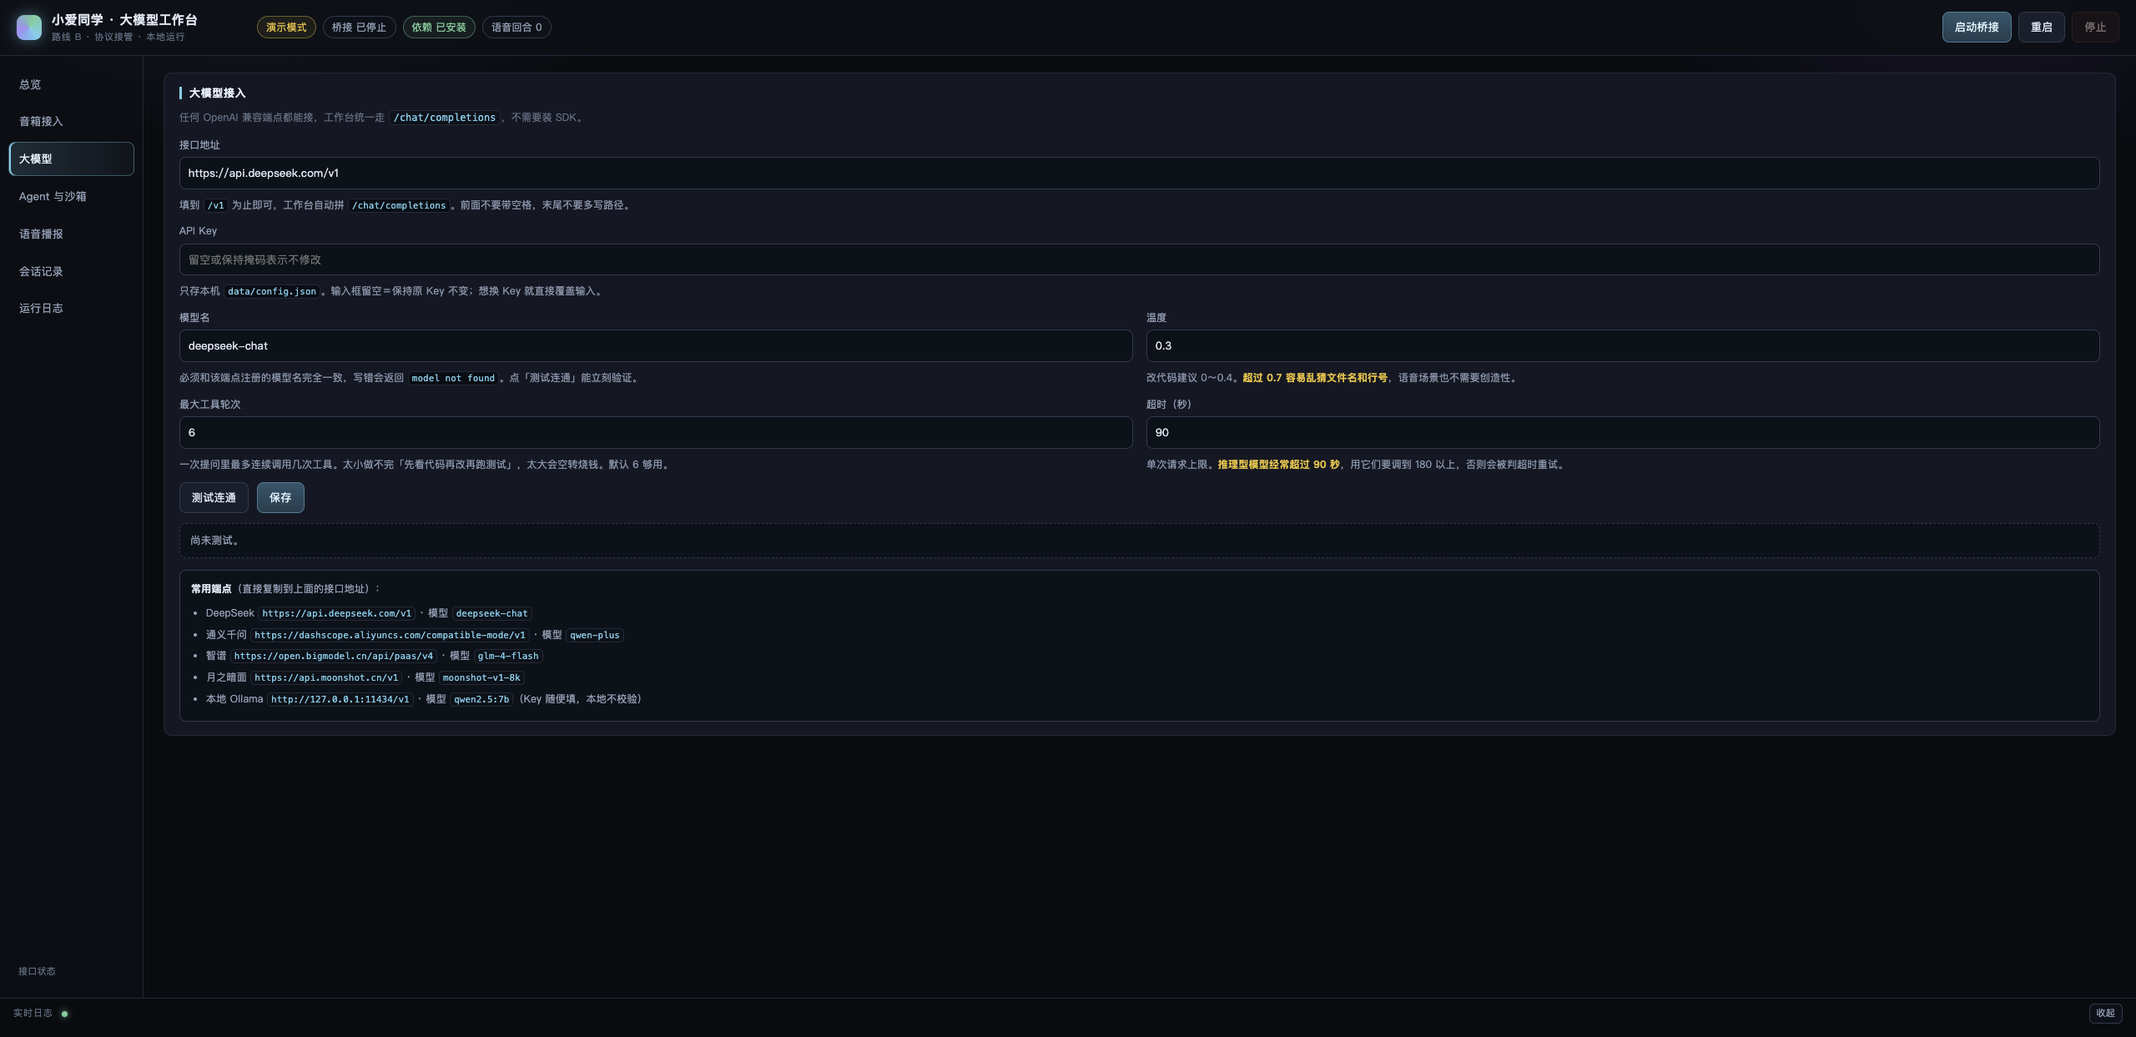
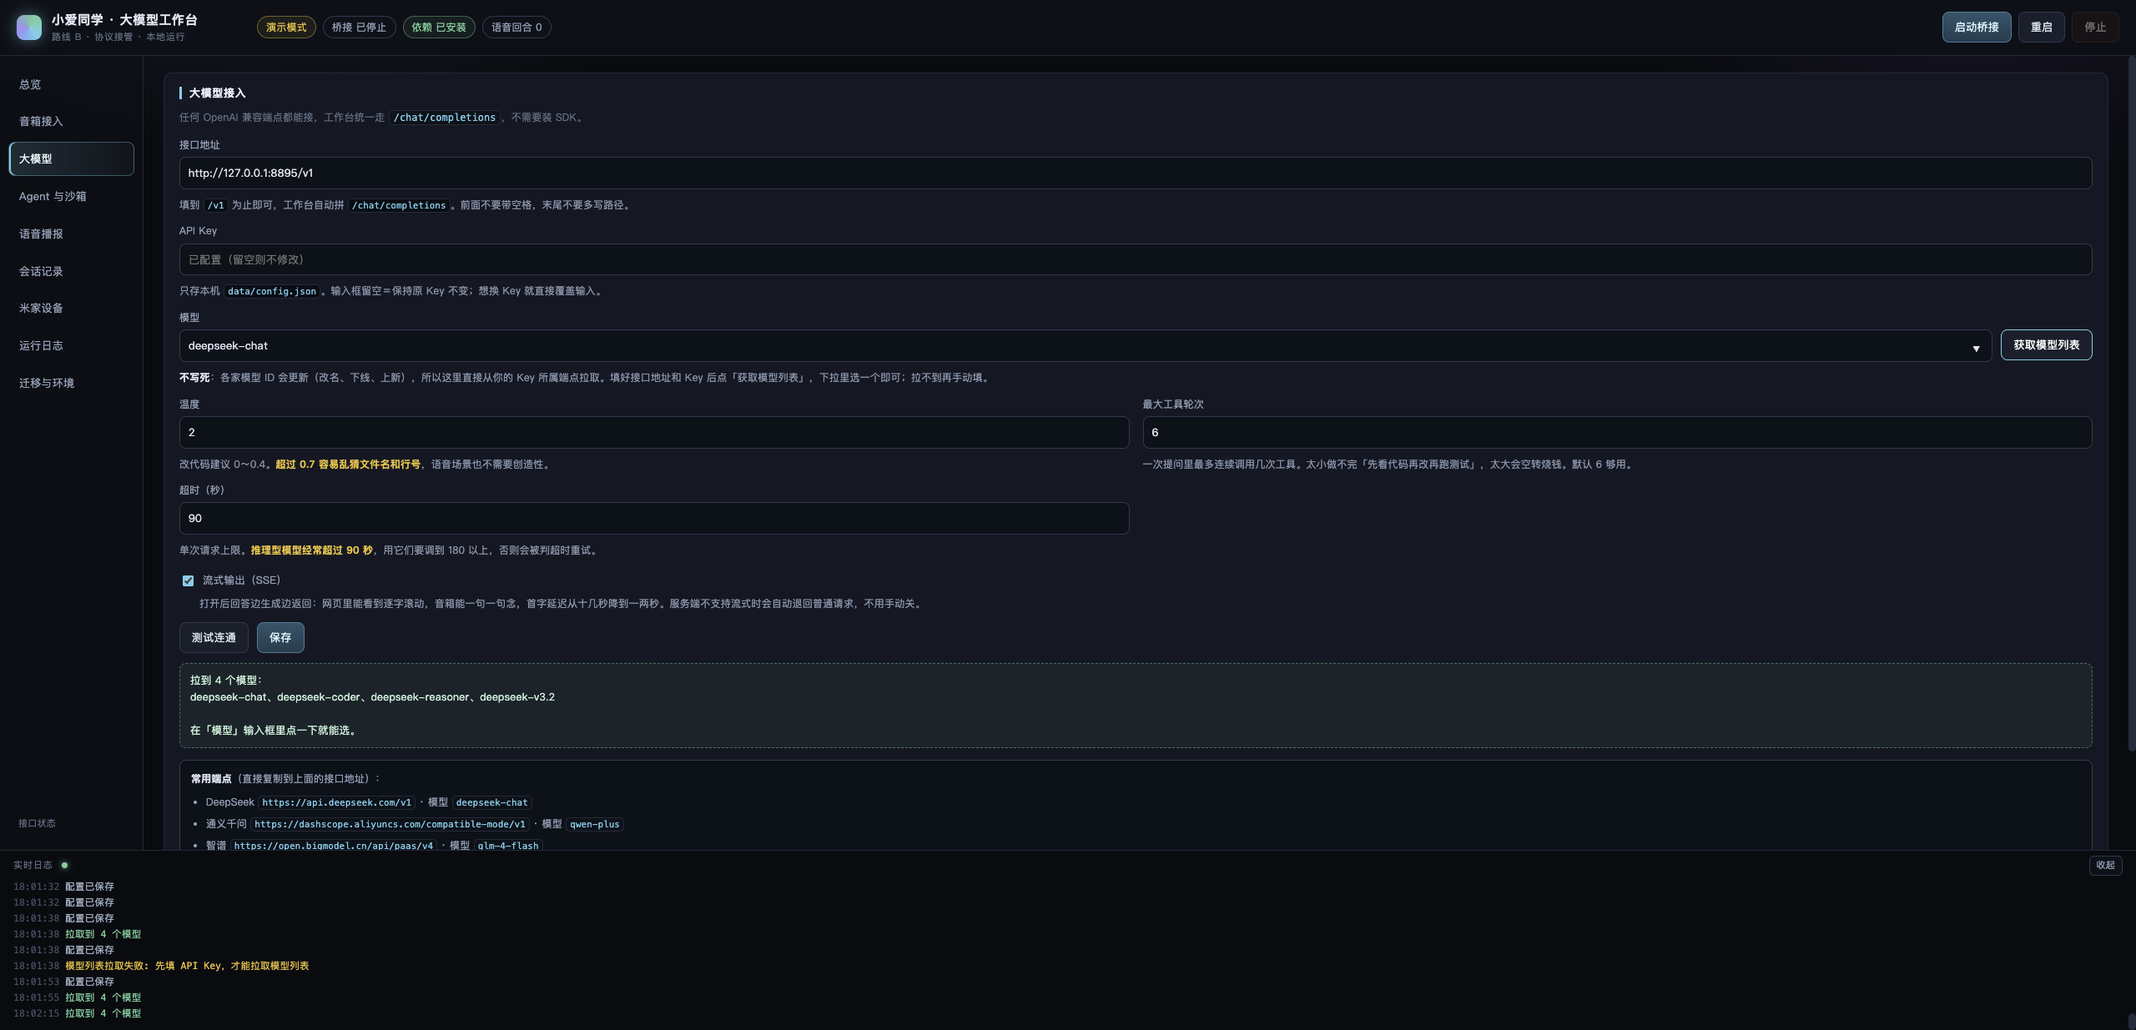
feat(ui): 模型列表现场拉取 + DID/型号自动带回 + 首次配置引导
用户反馈三个真问题：
1. 不知道 DID 去哪找、型号怎么填——其实「发现设备」就能带回来，
   但界面没引导，型号还是个写死的下拉，真机型号不在列表里就卡住
2. 模型 ID 写死 deepseek-chat，上游改名/上新后就过时

改动：
- 新增 GET /api/llm/models，走 OpenAI 兼容的 /models，前端「获取模型列表」
  一键填充 datalist；不提供的端点明确报错，仍可手填
- 硬件型号改成可自由输入的 input + datalist 候选，发现设备时自动带回
- 音箱接入顶部加四步配置引导卡
- 修程序化填值被 3 秒轮询覆盖：必须派发 input 事件置脏标记
- 修 #mi / #llm 这类不存在选择器导致的静默失败
- 新增 6 个测试，总计 132

diff --git a/app/web/index.html b/app/web/index.html
@@ -123,6 +123,16 @@
       <section class="panel" data-panel="mi">
         <div class="box">
           <h2>小米账号与设备</h2>
+          <div class="steps">
+            <b>第一次配置，按这四个步骤走：</b>
+            <ol>
+              <li>填上面的<b>小米账号和密码</b>，点「保存」。（建议用小号，同账号会顶掉手机小爱）</li>
+              <li>点「<b>发现设备</b>」——它会从小米云端把你这账号下的音箱<b>连同 DID 和型号一起列出来</b>，不需要你手抄。</li>
+              <li>表格里每行左侧勾上「接管」，保存。只有一台时可以直接点那一行，DID 和型号会自动填好。</li>
+              <li>确认是接真机后，<b>取消勾选「演示模式」</b>，回顶部点「启动桥接」。</li>
+            </ol>
+            <p class="note" style="margin:6px 0 0">找不到设备？先在米家 App 里确认这台音箱确实挂在这个账号下、且已通电联网；账号密码错误会在这一步报出来。</p>
+          </div>
           <p class="hint">这一页决定「从哪台音箱取语音、往哪台音箱播报」。填完记得点保存，再回顶部启动桥接。</p>
 
           <div class="form" data-section="mi">
@@ -137,24 +147,26 @@
             </label>
 
             <label>设备 DID
-              <input name="did" placeholder="点下方「发现设备」后点一行自动填入">
-              <span class="note">音箱的唯一标识。家里有多台就填要接管的那台；留空则默认取账号下第一台。</span>
+              <input name="did" placeholder="点「发现设备」会自动带回，不用手抄">
+              <span class="note"><b>不用自己找</b>：DID 是小米云里设备的内部编号，手机端一般看不到。点下方「发现设备」会直接列出来并填好。手动填也行——家里多台就填要接管的那台，留空则默认用第一台。</span>
             </label>
 
             <label>硬件型号
-              <select name="hardware">
-                <option value="LX06">LX06 · 小爱音箱 Pro</option>
-                <option value="L06A">L06A · 小爱音箱 Pro</option>
-                <option value="L05B">L05B · 小爱音箱 Play</option>
-                <option value="L05C">L05C · Play 增强版</option>
-                <option value="L07A">L07A · 小爱音箱 Art</option>
-                <option value="LX5A">LX5A · 小米 AI 音箱</option>
-                <option value="X08A">X08A · 小爱音箱 HD</option>
-                <option value="X10A">X10A · 小爱触屏音箱</option>
-                <option value="LX04">LX04 · 触屏音箱</option>
-                <option value="MOCK">MOCK · 演示</option>
-              </select>
-              <span class="note">只影响能力判断（是否走播放/音量接口），纯文本播报一般填错也能用。不确定就按「发现设备」里显示的型号选。</span>
+              <input name="hardware" list="hw-codes" placeholder="发现设备后自动带回，例如 LX06">
+              <datalist id="hw-codes">
+                <option value="LX06">小爱音箱 Pro</option>
+                <option value="L06A">小爱音箱 Pro</option>
+                <option value="LX5A">小米 AI 音箱</option>
+                <option value="L05B">小爱音箱 Play</option>
+                <option value="L05C">Play 增强版</option>
+                <option value="L07A">小爱音箱 Art</option>
+                <option value="X08A">小爱音箱 HD</option>
+                <option value="X10A">小爱触屏音箱</option>
+                <option value="LX04">触屏音箱</option>
+                <option value="OH2P">小米 Sound Pro</option>
+                <option value="MOCK">演示</option>
+              </datalist>
+              <span class="note"><b>也不用自己猜</b>：点「发现设备」会把真实型号带回来。它只影响能力判断（音量/播放接口），填错通常也能正常播报；能直接输入任意型号，不受列表限制。</span>
             </label>
 
             <label>轮询间隔（秒）
@@ -213,9 +225,13 @@
               <span class="note">只存本机 <code>data/config.json</code>。输入框留空＝保持原 Key 不变；想换 Key 就直接覆盖输入。</span>
             </label>
 
-            <label>模型名
-              <input name="model" placeholder="deepseek-chat">
-              <span class="note">必须和该端点注册的模型名完全一致，写错会返回 <code>model not found</code>。点「测试连通」能立刻验证。</span>
+            <label class="full">模型
+              <div class="row" style="margin:0">
+                <input name="model" list="model-list" placeholder="点右侧「获取列表」自动填充，或手动输入" style="flex:1">
+                <button class="btn" id="btn-list-models" type="button" title="向该端点请求 /models，列出当前可用的模型 ID">获取模型列表</button>
+              </div>
+              <datalist id="model-list"></datalist>
+              <span class="note"><b>不写死</b>：各家模型 ID 会更新（改名、下线、上新），所以这里直接从你的 Key 所属端点拉取。填好接口地址和 Key 后点「获取模型列表」，下拉里选一个即可；拉不到再手动填。</span>
             </label>
 
             <label>温度

diff --git a/app/web/app.js b/app/web/app.js
@@ -63,6 +63,14 @@
   });
 
   /* ------------------------------------------------ 配置表单 */
+  // 程序化填值也要走事件，否则后台轮询会把刚填的内容冲掉
+  function setField(el, value) {
+    if (!el) return;
+    el.value = value == null ? "" : value;
+    el.dispatchEvent(new Event("input", { bubbles: true }));
+    el.dispatchEvent(new Event("change", { bubbles: true }));
+  }
+
   function fillForm(section, cfg) {
     const box = $(`.form[data-section="${section}"]`);
     if (!box || !cfg) return;
@@ -343,13 +351,24 @@
     MI_DIDS = (((STATE || {}).config || {}).mi || {}).dids || [];
     tb.innerHTML = (list || []).map(d => {
       const on = MI_DIDS.includes(d.did) ? "checked" : "";
-      return `<tr><td><input type="checkbox" class="pick-did" data-did="${esc(d.did)}" ${on}></td>
+      return `<tr data-did="${esc(d.did)}" data-hw="${esc(d.hardware || "")}">
+      <td><input type="checkbox" class="pick-did" data-did="${esc(d.did)}" ${on}></td>
       <td>${esc(d.name || "—")}</td><td>${esc(d.hardware || "—")}</td><td><code>${esc(d.did)}</code></td></tr>`;
     }).join("");
     tbl.hidden = !(list && list.length);
     const dn = $("#dev-note");
     if (dn) dn.hidden = !(list && list.length);
-    if (list && list.length) box.textContent = `发现 ${list.length} 台设备。`;
+    if (list && list.length > 1) {
+      box.textContent = `发现 ${list.length} 台设备：勾选「接管」可同时管理多台；只想接管一台就点那一行，DID 和型号会自动填好。`;
+    }
+    // 只有一台就直接把 DID 和型号填好，省掉手抄
+    if (list && list.length === 1) {
+      const d = list[0];
+      const f = (n) => $(`.panel[data-panel="mi"] input[name="${n}"]`);
+      setField(f("did"), d.did || "");
+      if (d.hardware) setField(f("hardware"), d.hardware);
+      box.textContent = `发现 1 台设备：${d.name || d.did}，DID 与型号已自动填入。`;
+    }
     $$("#dev-table .pick-did").forEach(cb => {
       cb.addEventListener("change", () => {
         const did = cb.dataset.did;
@@ -363,9 +382,11 @@
     $$("#dev-table tbody tr").forEach(tr => {
       tr.addEventListener("click", (e) => {
         if (e.target.tagName === "INPUT") return;
-        const did = tr.querySelector("code").textContent;
-        $('#mi input[name="did"]').value = did;
-        toast("已填入单个 DID");
+        const did = tr.dataset.did || tr.querySelector("code").textContent;
+        const hw = (tr.dataset.hw || "").trim();
+        setField($('.panel[data-panel="mi"] input[name="did"]'), did);
+        if (hw) setField($('.panel[data-panel="mi"] input[name="hardware"]'), hw);
+        toast("已填入 DID" + (hw ? "（型号 " + hw + "）" : ""));
       });
     });
   }
@@ -398,6 +419,36 @@
     const r = await api("/api/mi/otp", { code });
     toast(r.ok ? "已提交验证码" : (r.error || "失败"), !r.ok);
     $("#otp-input").value = "";
+  });
+
+  $("#btn-list-models").addEventListener("click", async () => {
+    const btn = $("#btn-list-models");
+    const box = $("#llm-result");
+    btn.disabled = true;
+    btn.textContent = "拉取中…";
+    box.className = "result";
+    box.textContent = "正在向端点请求模型列表（会先用当前已保存的接口地址与 Key）…";
+    try {
+      const r = await api("/api/llm/models");
+      if (!r.ok) {
+        box.className = "result err";
+        box.textContent = "拉取失败：" + (r.error || "未知") +
+          "\n\n提示：先点「保存」把接口地址和 Key 存下来，再获取；个别端点不提供 /models，只能手动填。";
+        return;
+      }
+      const dl = $("#model-list");
+      dl.innerHTML = r.models.map(m => `<option value="${esc(m)}"></option>`).join("");
+      const cur = $('.panel[data-panel="llm"] input[name="model"]');
+      if (cur && !cur.value && r.models.length) {
+        setField(cur, (r.current && r.models.includes(r.current)) ? r.current : r.models[0]);
+      }
+      box.className = "result ok";
+      box.textContent = `拉到 ${r.models.length} 个模型：\n` + r.models.slice(0, 40).join("、") +
+        (r.models.length > 40 ? " …" : "") + "\n\n在「模型」输入框里点一下就能选。";
+    } finally {
+      btn.disabled = false;
+      btn.textContent = "获取模型列表";
+    }
   });
 
   $("#btn-diag-llm").addEventListener("click", async () => {

diff --git a/app/web/style.css b/app/web/style.css
@@ -297,3 +297,15 @@ input[type=checkbox]{width:auto; accent-color:var(--cy)}
 }
 .back-home:hover{border-color:var(--cy); color:#fff; transform:translateX(-2px)}
 .back-home[hidden]{display:none !important}
+
+
+/* ---------------- 首次配置引导 ---------------- */
+.steps{
+  margin:0 0 14px; padding:12px 14px; border-radius:9px; font-size:12.5px;
+  background:rgba(34,211,238,.05); border:1px solid rgba(34,211,238,.28);
+  color:var(--tx2); line-height:1.8;
+}
+.steps > b{color:#e8fbff; display:block; margin-bottom:6px}
+.steps ol{margin:0; padding-left:20px}
+.steps li{margin:4px 0}
+.steps li b{color:var(--cy); font-weight:600}

diff --git a/tests/test_models.py b/tests/test_models.py
@@ -1,0 +1,95 @@
+"""模型列表拉取：不该把模型 ID 写死在代码里。"""
+import json
+import os
+import sys
+import threading
+import unittest
+from http.server import BaseHTTPRequestHandler, ThreadingHTTPServer
+
+sys.path.insert(0, os.path.dirname(os.path.dirname(os.path.abspath(__file__))))
+
+from app import llm
+
+
+class _Handler(BaseHTTPRequestHandler):
+    protocol_version = "HTTP/1.1"
+    mode = "ok"
+
+    def log_message(self, *a):
+        pass
+
+    def do_GET(self):
+        if not self.path.endswith("/models"):
+            self.send_response(404)
+            self.send_header("Content-Length", "0")
+            self.end_headers()
+            return
+        if _Handler.mode == "401":
+            self.send_response(401)
+            self.send_header("Content-Length", "0")
+            self.end_headers()
+            return
+        if _Handler.mode == "notjson":
+            out = b"<html>not json</html>"
+        elif _Handler.mode == "nodata":
+            out = json.dumps({"error": "x"}).encode()
+        else:
+            out = json.dumps({"object": "list", "data": [
+                {"id": "m-b"}, {"id": "m-a"}, {"id": "m-a"}, {"no_id": 1}]}).encode()
+        self.send_response(200)
+        self.send_header("Content-Type", "application/json")
+        self.send_header("Content-Length", str(len(out)))
+        self.end_headers()
+        self.wfile.write(out)
+
+
+class ModelListTest(unittest.TestCase):
+    @classmethod
+    def setUpClass(cls):
+        cls.port = 8894
+        cls.httpd = ThreadingHTTPServer(("127.0.0.1", cls.port), _Handler)
+        threading.Thread(target=cls.httpd.serve_forever, daemon=True).start()
+
+    @classmethod
+    def tearDownClass(cls):
+        cls.httpd.shutdown()
+
+    def cfg(self, **kw):
+        base = {"base_url": "http://127.0.0.1:%d/v1" % self.port, "api_key": "k", "timeout": 5}
+        base.update(kw)
+        return base
+
+    def test_returns_sorted_unique(self):
+        _Handler.mode = "ok"
+        self.assertEqual(llm.list_models(self.cfg()), ["m-a", "m-b"])
+
+    def test_requires_api_key(self):
+        with self.assertRaises(llm.LLMError) as ctx:
+            llm.list_models({"base_url": "http://x/v1", "api_key": ""})
+        self.assertIn("Key", str(ctx.exception))
+
+    def test_http_error_surfaces(self):
+        _Handler.mode = "401"
+        with self.assertRaises(llm.LLMError) as ctx:
+            llm.list_models(self.cfg())
+        self.assertIn("401", str(ctx.exception))
+
+    def test_non_json_rejected(self):
+        _Handler.mode = "notjson"
+        with self.assertRaises(llm.LLMError):
+            llm.list_models(self.cfg())
+
+    def test_missing_data_array(self):
+        _Handler.mode = "nodata"
+        with self.assertRaises(llm.LLMError) as ctx:
+            llm.list_models(self.cfg())
+        self.assertIn("data", str(ctx.exception))
+
+    def test_trailing_slash_base(self):
+        _Handler.mode = "ok"
+        cfg = self.cfg(base_url="http://127.0.0.1:%d/v1/" % self.port)
+        self.assertEqual(llm.list_models(cfg), ["m-a", "m-b"])
+
+
+if __name__ == "__main__":
+    unittest.main()

diff --git a/app/llm.py b/app/llm.py
@@ -243,3 +243,54 @@ def stream_or_chat(
         if retry_plain:
             return chat(messages, cfg, tools)
         raise
+
+
+def list_models(cfg: Dict[str, Any]) -> List[str]:
+    """向端点要模型列表（OpenAI 兼容的 GET /models）。
+
+    模型 ID 各家随时会变，写死迟早过时——填了 Key 就该自己列出来。
+    """
+    api_key = (cfg.get("api_key") or "").strip()
+    if not api_key:
+        raise LLMError("先填 API Key，才能拉取模型列表")
+    base = (cfg.get("base_url") or "").strip().rstrip("/")
+    if not base:
+        raise LLMError("未配置 LLM base_url")
+    url = base + "/models"
+    req = urllib.request.Request(
+        url, method="GET",
+        headers={"Authorization": "Bearer " + api_key, "User-Agent": "xiaoai-console/1.0"},
+    )
+    timeout = min(30, int(cfg.get("timeout", 90)))
+    try:
+        with urllib.request.urlopen(req, timeout=timeout) as resp:
+            raw = resp.read().decode("utf-8", "replace")
+    except urllib.error.HTTPError as e:
+        detail = ""
+        try:
+            detail = e.read().decode("utf-8", "replace")[:300]
+        except Exception:
+            pass
+        raise LLMError("拉取模型列表失败 HTTP %s: %s" % (e.code, detail or e.reason))
+    except socket.timeout:
+        raise LLMError("拉取模型列表超时")
+    except urllib.error.URLError as e:
+        raise LLMError("连接失败: %s" % (e.reason,))
+
+    try:
+        data = json.loads(raw)
+    except ValueError:
+        raise LLMError("模型列表不是 JSON: " + raw[:200])
+
+    items = data.get("data") if isinstance(data, dict) else None
+    if not isinstance(items, list):
+        raise LLMError("端点没有返回 data 数组，可能不支持 /models")
+    out = []
+    for it in items:
+        if isinstance(it, dict) and it.get("id"):
+            out.append(str(it["id"]))
+        elif isinstance(it, str):
+            out.append(it)
+    if not out:
+        raise LLMError("模型列表为空")
+    return sorted(set(out))

diff --git a/app/server.py b/app/server.py
@@ -163,6 +163,15 @@ class Handler(BaseHTTPRequestHandler):
             self.end_headers()
             LOG.ok("已导出会话记录 %d 轮（%s）" % (len(turns), fmt))
             return self.wfile.write(body)
+        if path == "/api/llm/models":
+            cfg = store.load_config()["llm"]
+            try:
+                models = llm.list_models(cfg)
+                LOG.ok("拉取到 %d 个模型" % len(models))
+                return self._json({"ok": True, "models": models, "current": cfg.get("model")})
+            except llm.LLMError as e:
+                LOG.warn("模型列表拉取失败: %s" % e)
+                return self._json({"ok": False, "error": str(e)}, 502)
         if path == "/api/memory":
             return self._json({"ok": True, **memory.MEM.stats()})
         if path == "/api/miot/devices":

diff --git a/README.md b/README.md
@@ -151,7 +151,8 @@ XIAOAI_PORT=8899 ./start.sh   # 指定端口
 |---|---|
 | 小米账号 | 建议单独开小号——同一账号在别处登录会顶掉手机上的小爱 App |
 | 密码 | 明文只存本机 `data/config.json`（0600）；输入框留空＝保持原密码不变 |
-| 设备 DID | 点「发现设备」后点表格一行自动填入；留空则取账号下第一台 |
+| 设备 DID | **不用手抄**：点「发现设备」会列出并自动填入；留空则取账号下第一台 |
+| 硬件型号 | **不用猜**：发现设备时自动带回；可自由输入任意型号，不受下拉限制 |
 | 接管（多选） | 勾多台即多音箱：谁被唤醒回谁；**N 台 = N 次轮询**，超过 5 台调大间隔 |
 | 硬件型号 | 只影响能力判断，纯文本播报填错一般也能用 |
 | 轮询间隔 | **别低于 1 秒**，小米云端有频率限制，太频繁会被限流甚至短暂封号 |
@@ -164,7 +165,7 @@ XIAOAI_PORT=8899 ./start.sh   # 指定端口
 |---|---|
 | 接口地址 | 填到 `/v1` 为止，工作台自动拼 `/chat/completions` |
 | API Key | 只存本机；留空＝保持原 Key，想换就直接覆盖输入 |
-| 模型名 | 必须与该端点注册名完全一致，写错返回 `model not found` |
+| 模型 | **不写死**：填好接口地址和 Key 后点「获取模型列表」，从端点 `/models` 拉取真实可用 ID，下拉里选 |
 | 温度 | 改代码建议 0～0.4，**超过 0.7 容易乱猜文件名和行号** |
 | 流式输出 | 打开后首字延迟从十几秒降到一两秒；服务端不支持时自动降级 |
 | 最大工具轮次 | 太小做不完多步任务，太大会空转烧钱，默认 6 |
@@ -246,6 +247,16 @@ cd xiaoai-console
 ### 不要同时双开
 
 挂载实例和 standalone（默认 8799）会轮询**同一个小米账号**，互相抢回答。挂载模式启动时若发现 8799 在跑会打印警告。
+
+## 模型 ID 不写死
+
+各家模型 ID 会改名、下线、上新，写死在代码里必然过时。工作台改成从你的 Key 所属端点现拉：
+
+```
+填接口地址 + Key → 保存 → 点「获取模型列表」→ 下拉选一个
+```
+
+背后是标准 OpenAI 兼容的 `GET /models`，返回的 ID 填进 `<datalist>`。个别端点不提供这个接口时会明确报错，手动填仍然可以。
 
 ## 多音箱
 
